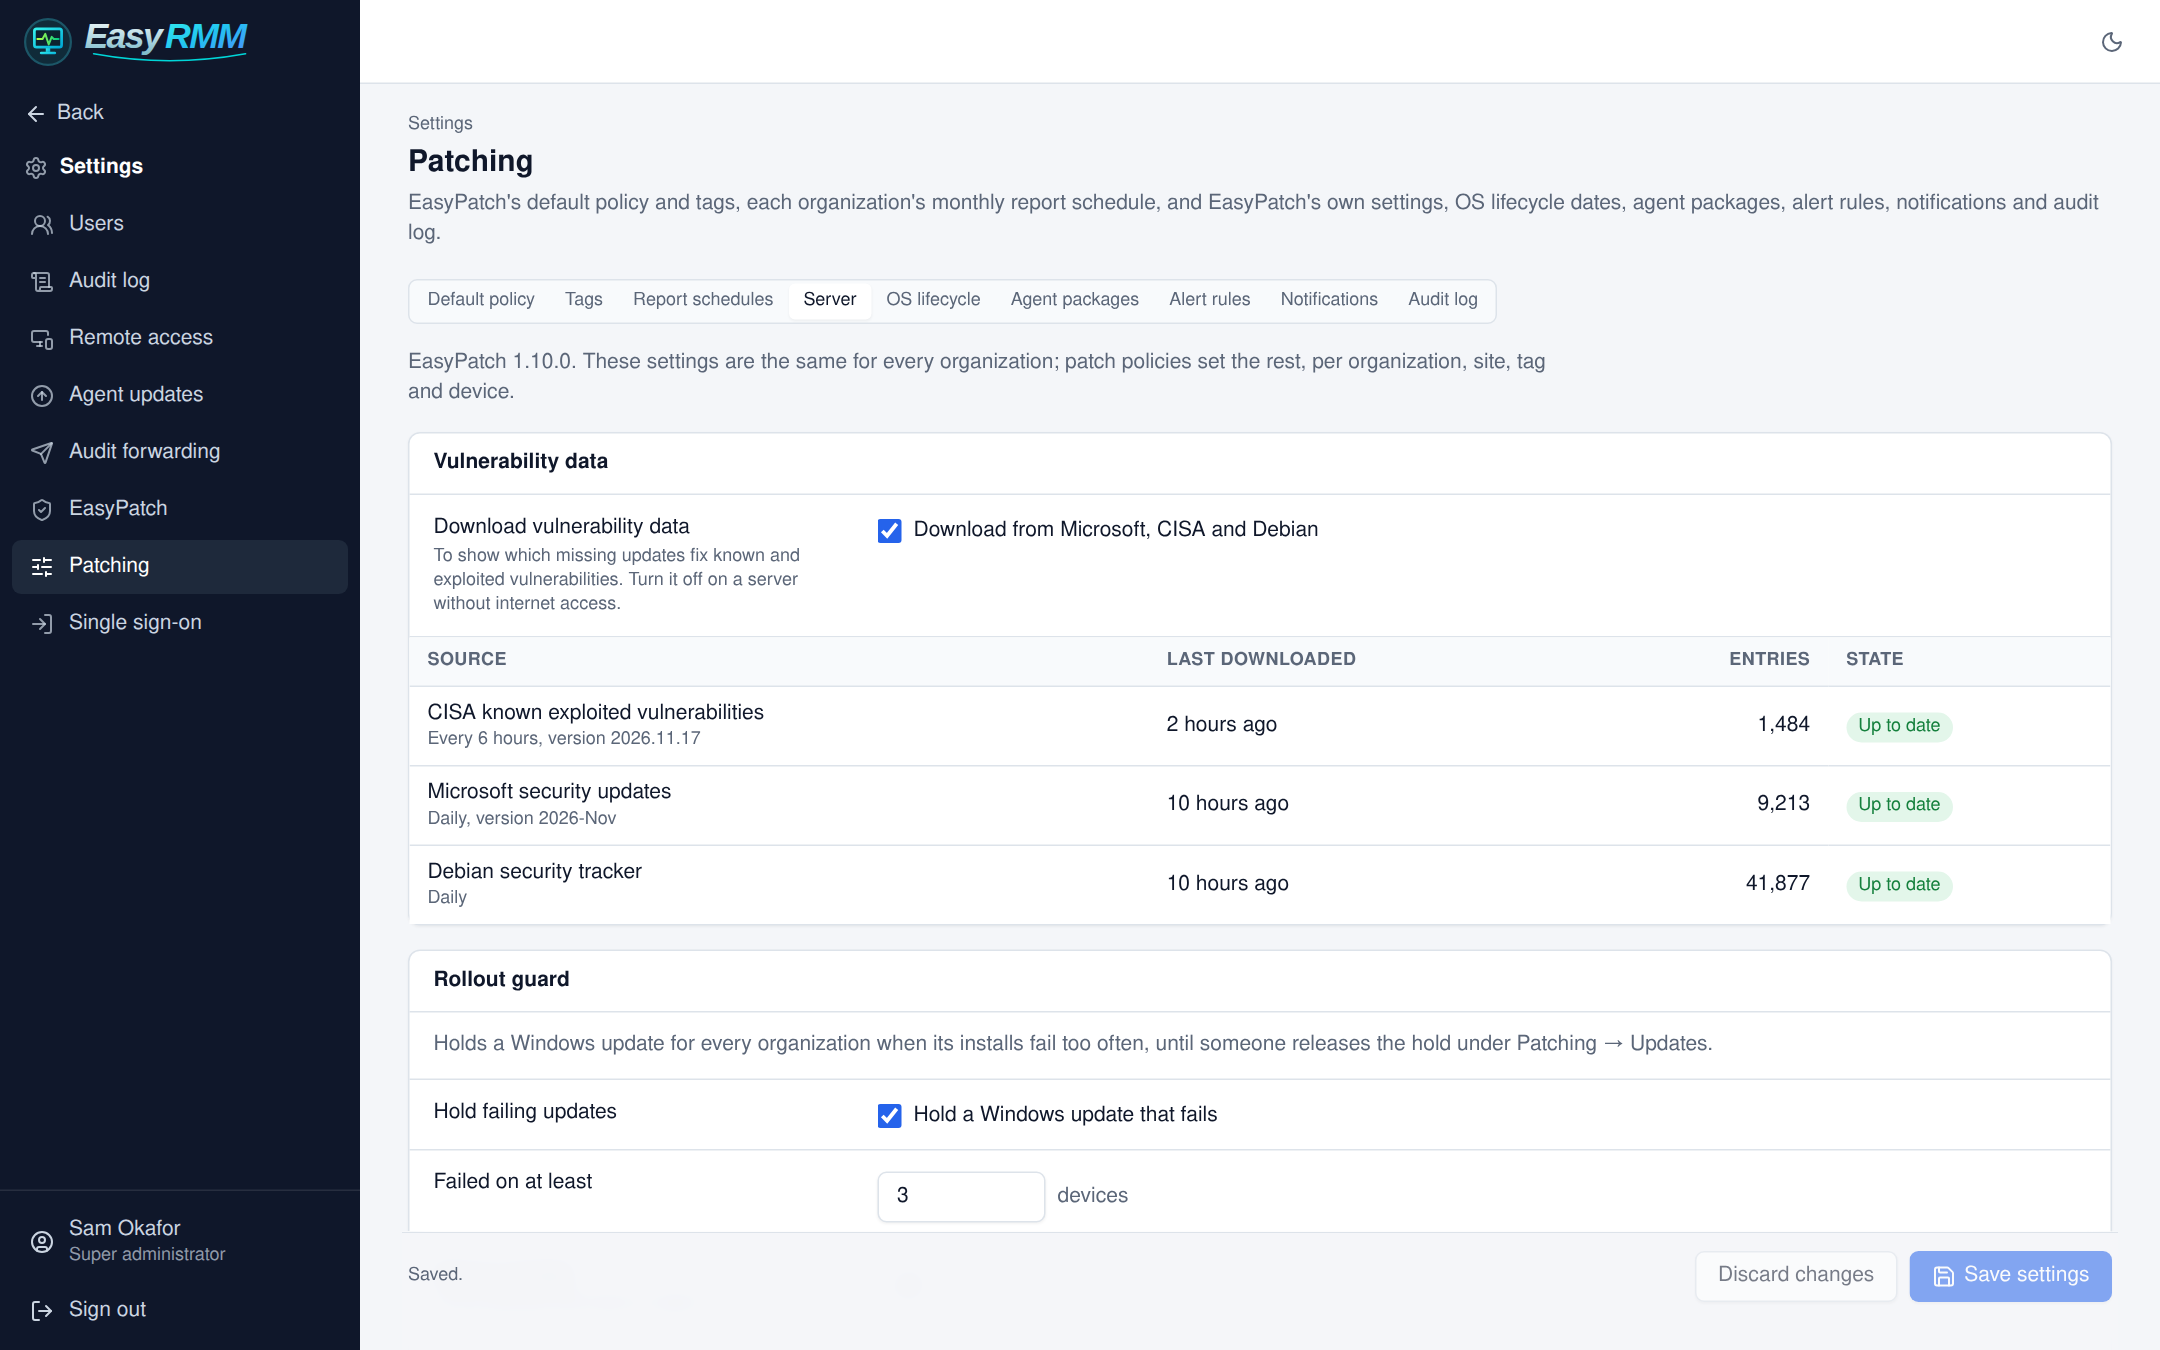
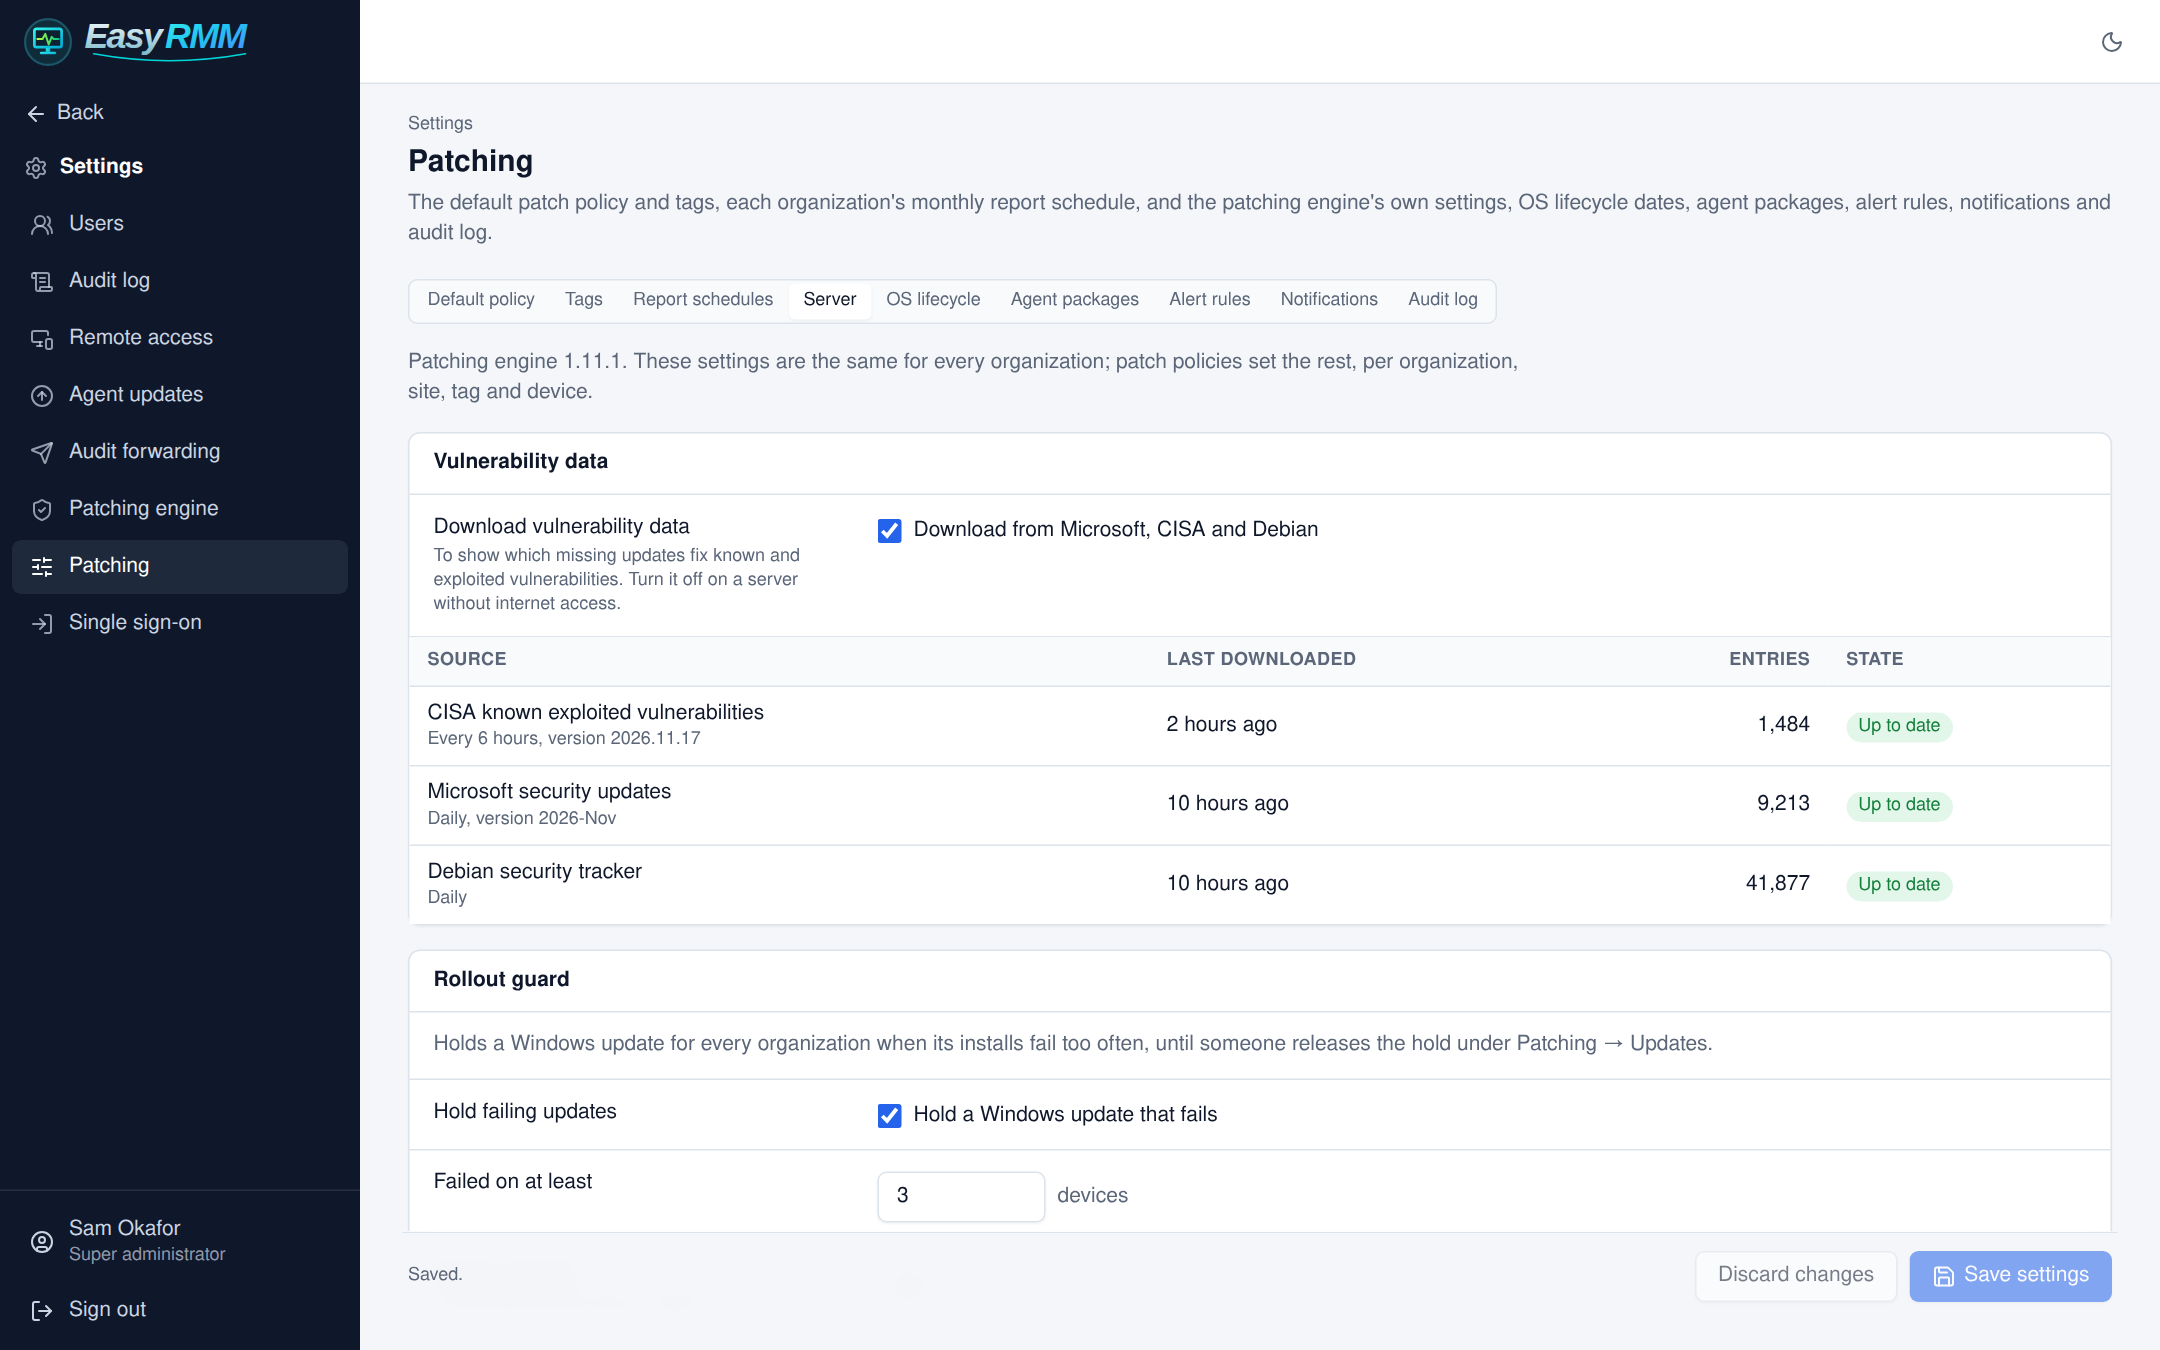
Screenshots retaken: the console's current labels and hints, engine 1.11.1

Changed region(s): [[0.1861, 0.1244, 0.9616, 0.1867], [0.1861, 0.2489, 0.7134, 0.3111], [0.031, 0.3733, 0.0931, 0.4044]]

diff --git a/web/screenshots/demo.ts b/web/screenshots/demo.ts
@@ -407,7 +407,7 @@ function endpoint(d: Device, i: number): PatchEndpoint {
     status: "Active",
     operatingSystem: d.osDescription,
     platform: d.platform === "windows" ? "Windows" : "Linux",
-    agentVersion: d.platform === "windows" ? "1.10.0" : "1.10.0",
+    agentVersion: "1.11.1",
     agentOutdated: false,
     isOnline: d.online,
     lastCheckInAt: d.lastSeenAt,
@@ -434,7 +434,7 @@ export const fleet: PatchFleet = {
       status: "Active",
       operatingSystem: "Windows 11 Pro 24H2",
       platform: "Windows",
-      agentVersion: "1.10.0",
+      agentVersion: "1.11.1",
       agentOutdated: false,
       isOnline: true,
       lastCheckInAt: ago(4),
@@ -1125,7 +1125,7 @@ export const patchServerSettings: PatchSettingsView = {
     { name: "msrc", lastAttemptAt: ago(610), lastSuccessAt: ago(610), version: "2026-Nov", itemCount: 9213 },
     { name: "debian", lastAttemptAt: ago(615), lastSuccessAt: ago(615), itemCount: 41_877 },
   ],
-  version: "1.10.0",
+  version: "1.11.1",
   canEdit: true,
 };
 
